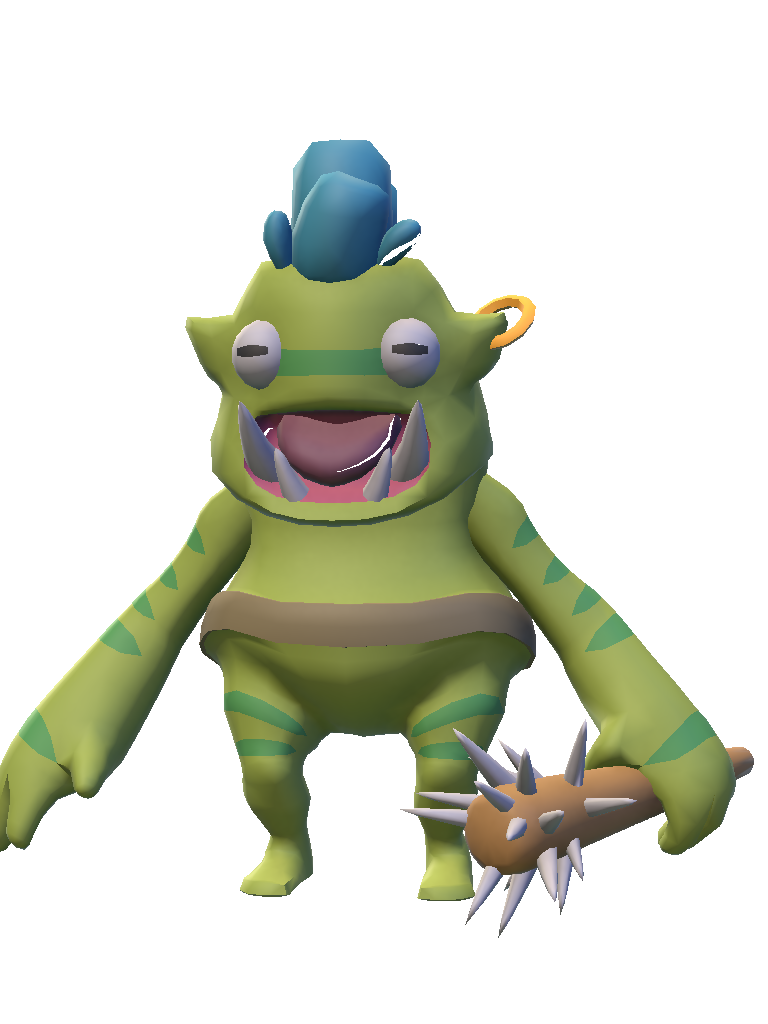
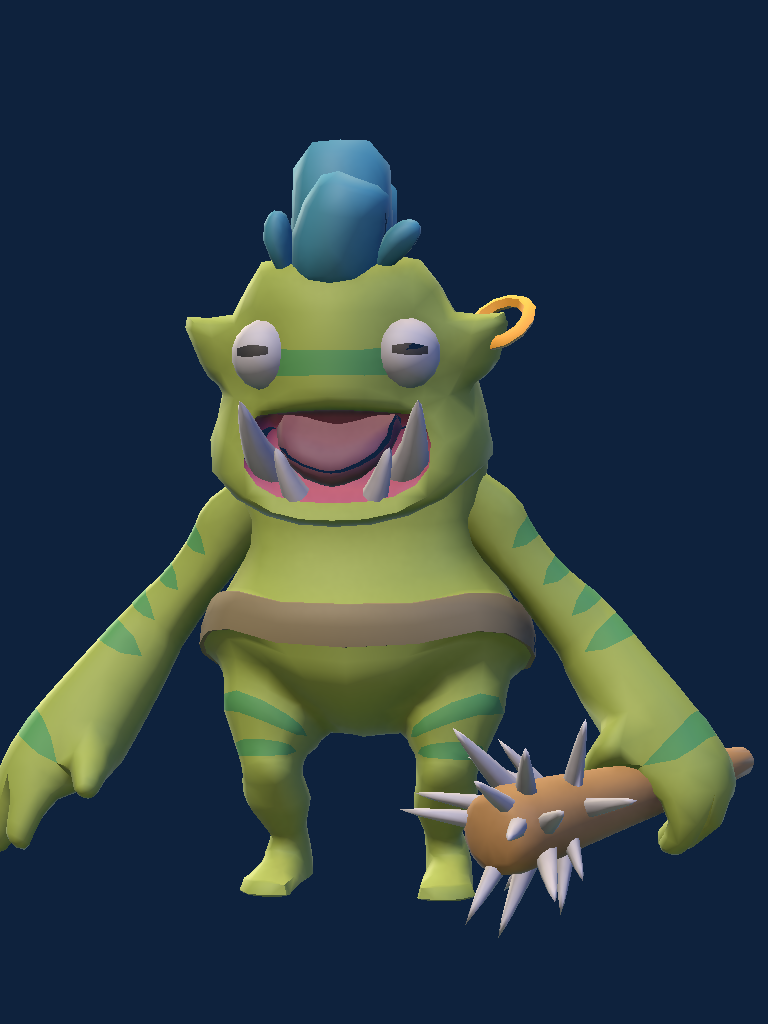
fix: replace character bg colors with #0E223D dark blue to match card panels

diff --git a/src/components/Characters.tsx b/src/components/Characters.tsx
@@ -73,7 +73,7 @@ export default function Characters() {
                 className="reveal-hidden game-panel flex flex-col items-center p-4 transition-transform duration-200 hover:-translate-y-2"
               >
                 {/* Character image */}
-                <div className="relative h-[140px] w-[120px]">
+                <div className="relative h-[140px] w-[120px] rounded-lg" style={{ background: "#0E223D" }}>
                   <Image
                     src={`/characters/${c.img}.png`}
                     alt={c.name}
